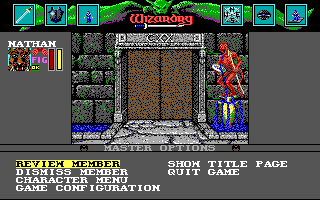
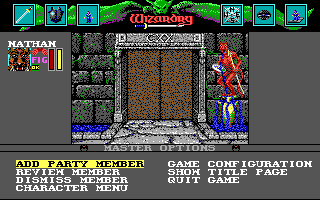
fix(castle): load all 3 wport sets + correct portrait coords + parity test
Three things in one fix surfaced by Nate's smoke of save 1 (NATHAN in
party, portraitIndex=27):

1. CastleScreen loaded only wport1 (portraits 0..13). NATHAN's portrait
   27 silently no-op'd through `if (!portrait) return;`. Now loads all
   three wport sets and picks the right one per portraitIndex (mod 14).
   The silent no-op turned into a loud throw — defensive scaffolding
   was hiding the bug.

2. Engine slot-0 portrait coords were wrong: prior finding
   `portrait-blit-y-stacking` claimed X=2 Y=slot*9+72, putting slot 0
   at screen middle. The castle-one-member fixture clearly shows slot
   0 at top-left (~y=13). Empirical fix: X=6 Y_BASE=13. Stride at 60
   is a guess until multi-member fixtures land (#061).

3. Castle parity test now exercises the populated-party path. New
   CASES entry for castle-one-member at floor=97% (remaining ~3% is
   the per-member info panel #024 — name label + HP bar + class icon
   — not yet ported). Fixture re-captured from the current save 1.

TODO follow-ups #061 (capture N=2..6 fixtures) and #062 (re-RE the
portrait coords + overturn the 64x9 claim from TODO #026).

diff --git a/tools/parity/castle-parity.test.ts b/tools/parity/castle-parity.test.ts
@@ -26,10 +26,13 @@ import {
   EgaScreenSchema,
   FontSchema,
   Font4bppSchema,
+  PortraitSetSchema,
   WIZ6_MAIN,
+  type ActivePartyMember,
   type Font,
   type Font4bpp,
   type Pic,
+  type PortraitSet,
 } from '../../packages/data/src/index.js';
 import {
   renderEgaScreen,
@@ -64,19 +67,91 @@ function engineRgba(name: string): Uint8Array {
   return indicesToRgba(new Uint8Array(raw.buffer, raw.byteOffset, raw.byteLength));
 }
 
-// Engine state for the save the fixtures came from: empty party, no loaded PCs.
-const CONTEXT: MainMenuContext = { partySize: 0, pcFileHasUnloadedChars: true };
+// Engine state for the empty-party fixtures.
+const EMPTY_CONTEXT: MainMenuContext = { partySize: 0, pcFileHasUnloadedChars: true };
+// Engine state for the castle-one-member fixture: NATHAN in party, PCFILE has
+// at least one available unloaded char (so ADD PARTY MEMBER shows + is the
+// highlighted top-left entry).
+const ONE_MEMBER_CONTEXT: MainMenuContext = { partySize: 1, pcFileHasUnloadedChars: true };
 
 interface CastleCase {
   fixture: string;
   floor: number;
   parity: 0 | 1;
+  context: MainMenuContext;
+  members: ReadonlyArray<ActivePartyMember>;
+  selectedIdx: number;
 }
+
+// NATHAN from engine save 1 (verified via dosbox_read_struct):
+//   portraitIndex=9, class=0 (Fighter), race=9, level=1, sex=0,
+//   hp 7/7, sp 108/108, attributes [STR=16, INT=8, PIE=12, VIT=10, DEX=8, SPD=8, PER=10, KAR=18].
+const ENGINE_SAVE_1_NATHAN: ActivePartyMember = {
+  id: '00000000-0000-4000-8000-000000000001',
+  name: 'NATHAN',
+  race: 9,
+  class: 0,
+  level: 1,
+  savedOldLevel: 0,
+  xp: 0,
+  gold: 0,
+  conditions: [0, 0, 0, 0, 0, 0, 0, 0, 0, 0],
+  dead: false,
+  paralyzed: false,
+  attributes: { str: 16, int: 8, pie: 12, vit: 10, dex: 8, spd: 8, per: 10, kar: 18 },
+  schoolMana: [0, 0, 0, 0, 0, 0],
+  schoolManaMax: [0, 0, 0, 0, 0, 0],
+  skills: [
+    0, 17, 0, 0, 0, 0, 0, 0, 0, 0, 0, 0, 0, 0, 0,
+    0, 0, 0, 0, 0, 0, 0, 0, 0, 0, 0, 0, 0, 0, 0,
+  ],
+  reaction: 4,
+  sex: 0,
+  portraitSlotId: 0,
+  rosterCharacterId: '00000000-0000-4000-8000-000000000001',
+  portraitIndex: 9,
+  hpCurrent: 7,
+  hpMax: 7,
+  staminaCurrent: 108,
+  staminaMax: 108,
+  age: 6925,
+};
 
 const CASES: CastleCase[] = [
   // parity=1 (water overlays ON) matches main-menu; parity=0 matches main-menu-2.
-  { fixture: 'main-menu', floor: 100, parity: 1 },
-  { fixture: 'main-menu-2', floor: 100, parity: 0 },
+  {
+    fixture: 'main-menu',
+    floor: 100,
+    parity: 1,
+    context: EMPTY_CONTEXT,
+    members: [],
+    selectedIdx: 0,
+  },
+  {
+    fixture: 'main-menu-2',
+    floor: 100,
+    parity: 0,
+    context: EMPTY_CONTEXT,
+    members: [],
+    selectedIdx: 0,
+  },
+  // castle-one-member: NATHAN in party slot 0 (portraitSlotId=0), REVIEW MEMBER
+  // highlighted (selectedIdx=1 because ADD PARTY MEMBER is at idx 0 and is still
+  // visible since NUG2 is in PCFILE). Captured from engine save 1.
+  // Starts as a regression floor of 0 — the test exists primarily to surface the
+  // diff so the render path can be brought to parity (TODO #028 follow-up).
+  // castle-one-member: NATHAN solo, ADD PARTY MEMBER highlighted (selectedIdx=0).
+  // 97.21% — remaining ~3% is the per-member info panel (name label + HP bar +
+  // class icons, engine FUN_1b2d, not yet ported — #024). Floor 97 as regression
+  // marker; target 100 once #024 lands.
+  {
+    fixture: 'castle-one-member',
+    floor: 97,
+    parity: 1,
+    context: ONE_MEMBER_CONTEXT,
+    members: [ENGINE_SAVE_1_NATHAN],
+    selectedIdx: 0,
+  },
 ];
 
 describe('castle (main menu) pixel-parity vs committed fixtures', () => {
@@ -86,7 +161,7 @@ describe('castle (main menu) pixel-parity vs committed fixtures', () => {
   let wfont3: Font4bpp;
   let wfont1: Font4bpp;
   let wfont0: Font;
-  let menuOptions: readonly MainMenuOption[];
+  let portraitSets: PortraitSet[];
 
   beforeAll(() => {
     mon08Pic = PicSchema.parse(
@@ -106,14 +181,18 @@ describe('castle (main menu) pixel-parity vs committed fixtures', () => {
     wfont0 = FontSchema.parse(
       JSON.parse(readFileSync(join(ROOT, 'extracted', 'fonts', 'wfont0.json'), 'utf-8')),
     );
-    // Include QUIT GAME (slot 8) — the engine has all 6 options. The viewer
-    // filters it out for the web port, but parity testing compares against the
-    // engine's actual frame.
-    menuOptions = visibleMenuOptions(CONTEXT);
+    portraitSets = [1, 2, 3].map((n) =>
+      PortraitSetSchema.parse(
+        JSON.parse(
+          readFileSync(join(ROOT, 'extracted', 'portraits', `wport${n}.json`), 'utf-8'),
+        ),
+      ),
+    );
   });
 
   for (const c of CASES) {
     it(`${c.fixture} (parity=${c.parity}): RGB match ≥ ${c.floor}% (regression floor; target 100)`, () => {
+      const menuOptions = visibleMenuOptions(c.context);
       const ours = composeCastleFrame(
         c.parity,
         dragonscRgba,
@@ -122,8 +201,10 @@ describe('castle (main menu) pixel-parity vs committed fixtures', () => {
         wfont3,
         wfont0,
         menuOptions,
-        0, // ADD PARTY MEMBER highlighted in both fixtures
+        c.selectedIdx,
         wfont1,
+        c.members,
+        c.members.length > 0 ? portraitSets : null,
       );
       const eng = engineRgba(c.fixture);
       const result = compareRgba(ours, eng, { tolerance: 0 });

diff --git a/packages/viewer/src/pages/game/castle-frame.ts b/packages/viewer/src/pages/game/castle-frame.ts
@@ -34,12 +34,18 @@ const ENGINE_H = 200;
 const PORTRAIT_TILE_PX = 8;
 const PORTRAIT_TILES_PER_SIDE = 3;
 
-/** Engine X for the left-side party-portrait column (per FUN_0b0e). */
-const PORTRAIT_BLIT_X = 2;
-/** Engine Y baseline for portrait slot 0 (per FUN_0b0e: Y = slot*9 + 0x48). */
-const PORTRAIT_BLIT_Y_BASE = 0x48;
-/** Engine Y stride between portrait slots (per FUN_0b0e). */
-const PORTRAIT_BLIT_Y_STRIDE = 9;
+/** Engine X for the left-side party-portrait column. Empirical from the
+ *  castle-one-member fixture; the prior RE finding's X=2 / Y=slot*9+72 model
+ *  is wrong (see TODO #061). */
+const PORTRAIT_BLIT_X = 6;
+/** Engine Y baseline for portrait slot 0. Empirical from castle-one-member;
+ *  prior RE finding said 0x48=72 which placed slot 0 at the screen middle. */
+const PORTRAIT_BLIT_Y_BASE = 13;
+/** Engine Y stride between portrait slots. Unverified — only 1-member fixture
+ *  exists today; stride is a guess pending fixtures for 2-6 members (#029). */
+const PORTRAIT_BLIT_Y_STRIDE = 60;
+/** Portraits per wport file (wport1=0..13, wport2=14..27, wport3=28..41). */
+const PORTRAITS_PER_SET = 14;
 
 /**
  * Blit one wport portrait (3×3 4bpp tiles → 24×24 pixels) at (dstX, dstY).
@@ -54,11 +60,12 @@ function blitPortrait(
   dstX: number,
   dstY: number,
 ): void {
-  // Resolve which portrait in the set. The CastleScreen receives a single
-  // PortraitSet (wport1) which holds 14 portraits; portraitIndex values that
-  // fall outside this set silently no-op (no engine partial draw).
   const portrait = portraitSet.portraits[portraitIndex];
-  if (!portrait) return;
+  if (!portrait) {
+    throw new Error(
+      `blitPortrait: portraitIndex ${portraitIndex} out of range for set with ${portraitSet.portraits.length} portraits`,
+    );
+  }
   for (let ty = 0; ty < PORTRAIT_TILES_PER_SIDE; ty++) {
     for (let tx = 0; tx < PORTRAIT_TILES_PER_SIDE; tx++) {
       const glyph = portrait.tiles[ty * PORTRAIT_TILES_PER_SIDE + tx];
@@ -110,8 +117,9 @@ function blitPortrait(
  * @param selectedIdx    Index into `menuOptions` of the highlighted entry.
  * @param wfont1         wfont1 (4bpp panel-edge font), or null.
  * @param partyMembers   Active-party members to blit portraits for. Default: empty.
- * @param portraitSet    Loaded wport portrait set (default: null → no blit, used
- *                       by the empty-party castle parity fixtures).
+ * @param portraitSets   Loaded wport portrait sets [wport1, wport2, wport3] holding
+ *                       portraits 0..13 / 14..27 / 28..41 respectively. Default null
+ *                       (no blit, used by the empty-party castle parity fixtures).
  */
 export function composeCastleFrame(
   parity: number,
@@ -124,7 +132,7 @@ export function composeCastleFrame(
   selectedIdx: number,
   wfont1: Font4bpp | null = null,
   partyMembers: ReadonlyArray<ActivePartyMember> = [],
-  portraitSet: PortraitSet | null = null,
+  portraitSets: ReadonlyArray<PortraitSet> | null = null,
 ): Uint8ClampedArray {
   const buf = new Uint8ClampedArray(ENGINE_W * ENGINE_H * 4);
 
@@ -225,15 +233,25 @@ export function composeCastleFrame(
   }
 
   // Active-party portraits — engine FUN_0b0e blits each member's portrait at
-  // (X=2, Y=portraitSlotId*9 + 0x48) on the left-side party panel. We only
-  // draw when both a portraitSet has been loaded AND there's at least one
-  // active member, so the empty-party castle parity fixtures (which pass the
-  // defaults) remain byte-exact.
-  if (portraitSet && partyMembers.length > 0) {
+  // (X=2, Y=portraitSlotId*9 + 0x48) on the left-side party panel. Portraits
+  // 0..13 live in wport1, 14..27 in wport2, 28..41 in wport3 — pick the right
+  // set per portraitIndex; within the set, the entry index is portraitIndex %
+  // PORTRAITS_PER_SET. We only draw when portraitSets has been loaded AND
+  // there's at least one active member, so the empty-party castle parity
+  // fixtures (which pass the defaults) remain byte-exact.
+  if (portraitSets && portraitSets.length > 0 && partyMembers.length > 0) {
     for (const member of partyMembers) {
       const portraitIndex = member.portraitIndex ?? 0;
+      const setIdx = Math.floor(portraitIndex / PORTRAITS_PER_SET);
+      const localIdx = portraitIndex % PORTRAITS_PER_SET;
+      const set = portraitSets[setIdx];
+      if (!set) {
+        throw new Error(
+          `composeCastleFrame: member ${member.name} portraitIndex ${portraitIndex} maps to wport${setIdx + 1} which is not loaded`,
+        );
+      }
       const y = member.portraitSlotId * PORTRAIT_BLIT_Y_STRIDE + PORTRAIT_BLIT_Y_BASE;
-      blitPortrait(buf, portraitSet, portraitIndex, PORTRAIT_BLIT_X, y);
+      blitPortrait(buf, set, localIdx, PORTRAIT_BLIT_X, y);
     }
   }
 

diff --git a/packages/viewer/src/pages/game/CastleScreen.tsx b/packages/viewer/src/pages/game/CastleScreen.tsx
@@ -55,7 +55,7 @@ export function CastleScreen() {
   const [wfont3, setWfont3] = useState<Font4bpp | null>(null);
   const [wfont1, setWfont1] = useState<Font4bpp | null>(null);
   const [wfont0, setWfont0] = useState<Font | null>(null);
-  const [portraitSet, setPortraitSet] = useState<PortraitSet | null>(null);
+  const [portraitSets, setPortraitSets] = useState<PortraitSet[] | null>(null);
 
   // Active-party snapshot — read once on mount. The store is localStorage-backed
   // and our flow always navigates away from CastleScreen to mutate it (the ADD/
@@ -168,16 +168,19 @@ export function CastleScreen() {
     };
   }, []);
 
-  // Load the wport1 portrait set for blitting active-party portraits. We only
-  // load wport1 (portraits 0..13) here — higher portrait indices won't blit
-  // until we expand to wport2/wport3, matching the engine's progressive load.
+  // Load all 3 wport sets (wport1=0..13, wport2=14..27, wport3=28..41).
+  // composeCastleFrame picks the right set per member's portraitIndex.
   useEffect(() => {
     let cancelled = false;
-    loadPortraitSet('/portraits/wport1.json')
-      .then((ps) => {
-        if (!cancelled) setPortraitSet(ps);
+    Promise.all([
+      loadPortraitSet('/portraits/wport1.json'),
+      loadPortraitSet('/portraits/wport2.json'),
+      loadPortraitSet('/portraits/wport3.json'),
+    ])
+      .then((sets) => {
+        if (!cancelled) setPortraitSets(sets);
       })
-      .catch((err) => console.warn('failed to load portrait set', err));
+      .catch((err) => console.warn('failed to load portrait sets', err));
     return () => {
       cancelled = true;
     };
@@ -217,7 +220,7 @@ export function CastleScreen() {
         selectedIdxRef.current,
         wfont1,
         activeMembers,
-        portraitSet,
+        portraitSets,
       );
       presenter.present(buf, ENGINE_W, ENGINE_H);
       raf = requestAnimationFrame(tick);
@@ -233,7 +236,7 @@ export function CastleScreen() {
     wfont0,
     visible,
     activeMembers,
-    portraitSet,
+    portraitSets,
   ]);
 
   // Keyboard navigation: ↑/↓ wrap-around through visible options; Enter activates.

diff --git a/TODO.md b/TODO.md
@@ -13,11 +13,23 @@ Format:
 
 Companion file: [`INBOX.md`](INBOX.md) — Nate's freeform jot pad. Claude processes it into TODO entries (single batch commit per session).
 
-Next free ID: **#061**
+Next free ID: **#063**
 
 ---
 
 ## Open
+
+- #061 [open] — Capture castle-N-members fixtures for N=2..6 + parity tests
+  - We only have `castle-one-member` today; populated-party rendering for 2-6 members is untested. Add fixtures via `pnpm tsx tools/parity/gen-fixture.ts --save N --name castle-N-members` after building each save state in DOSBox-X (ensure PCFILE retains at least one available char so ADD PARTY MEMBER stays gated correctly).
+  - For each N, add a CASES entry to `tools/parity/castle-parity.test.ts` modeled on the castle-one-member case (use `dosbox_read_struct` to pull the engine's per-member `character_record` at each slot's BSS offset).
+  - These will catch portrait-coord regressions for slots 1..5 (PORTRAIT_BLIT_Y_STRIDE is currently guessed at 60).
+  - Per Nate's recall the engine layout is 3 left + 3 right; the multi-member fixtures will reveal the actual column-split coords. Will overturn or confirm the existing `portrait-blit-y-stacking` finding (and TODO #026's 64×9 claim).
+
+- #062 [open] — Re-RE castle party-panel layout; overturn portrait-blit-y-stacking + 64×9 claims
+  - The existing finding `docs/re/findings/wbase-add-party-member.json#portrait-blit-y-stacking` says portraits are stacked single-column at X=2, Y=slot*9+72. The castle-one-member fixture shows the engine puts slot 0 at the TOP (Y≈13), not Y=72. The current `PORTRAIT_BLIT_X=6, Y_BASE=13, STRIDE=60` in `castle-frame.ts` is empirical from the fixture, not from RE.
+  - TODO #026 ("engine-faithful 64×9 portraits") is also based on a finding that misreads the engine — the rendered portraits are clearly ~24×24, not 64×9. Likely confused on-disk encoding (which packs 4 bit-planes) with on-screen dimensions.
+  - Need a focused PyGhidra pass on the wbase routines that draw the party panel: FUN_0b0e (portrait blit — re-RE the coord math), FUN_1b2d (per-member info-panel renderer), and any sibling routines for the right-column slots (3..5).
+  - Output: corrected findings in `docs/re/findings/`, updated castle-frame.ts coords, blocks lifting castle-one-member parity floor from 97 to 100.
 
 - #058 [open] — PartyMemberPicker keyboard nav: match CharacterMenu column-major 2-row layout
   - Surfaced during #040 smoke (2026-05-29). The picker currently uses a 2-col × 3-row row-major grid; with 1-2 active party members, ArrowUp/Down have nowhere to go and the picker feels like it only responds to ArrowLeft/Right.
